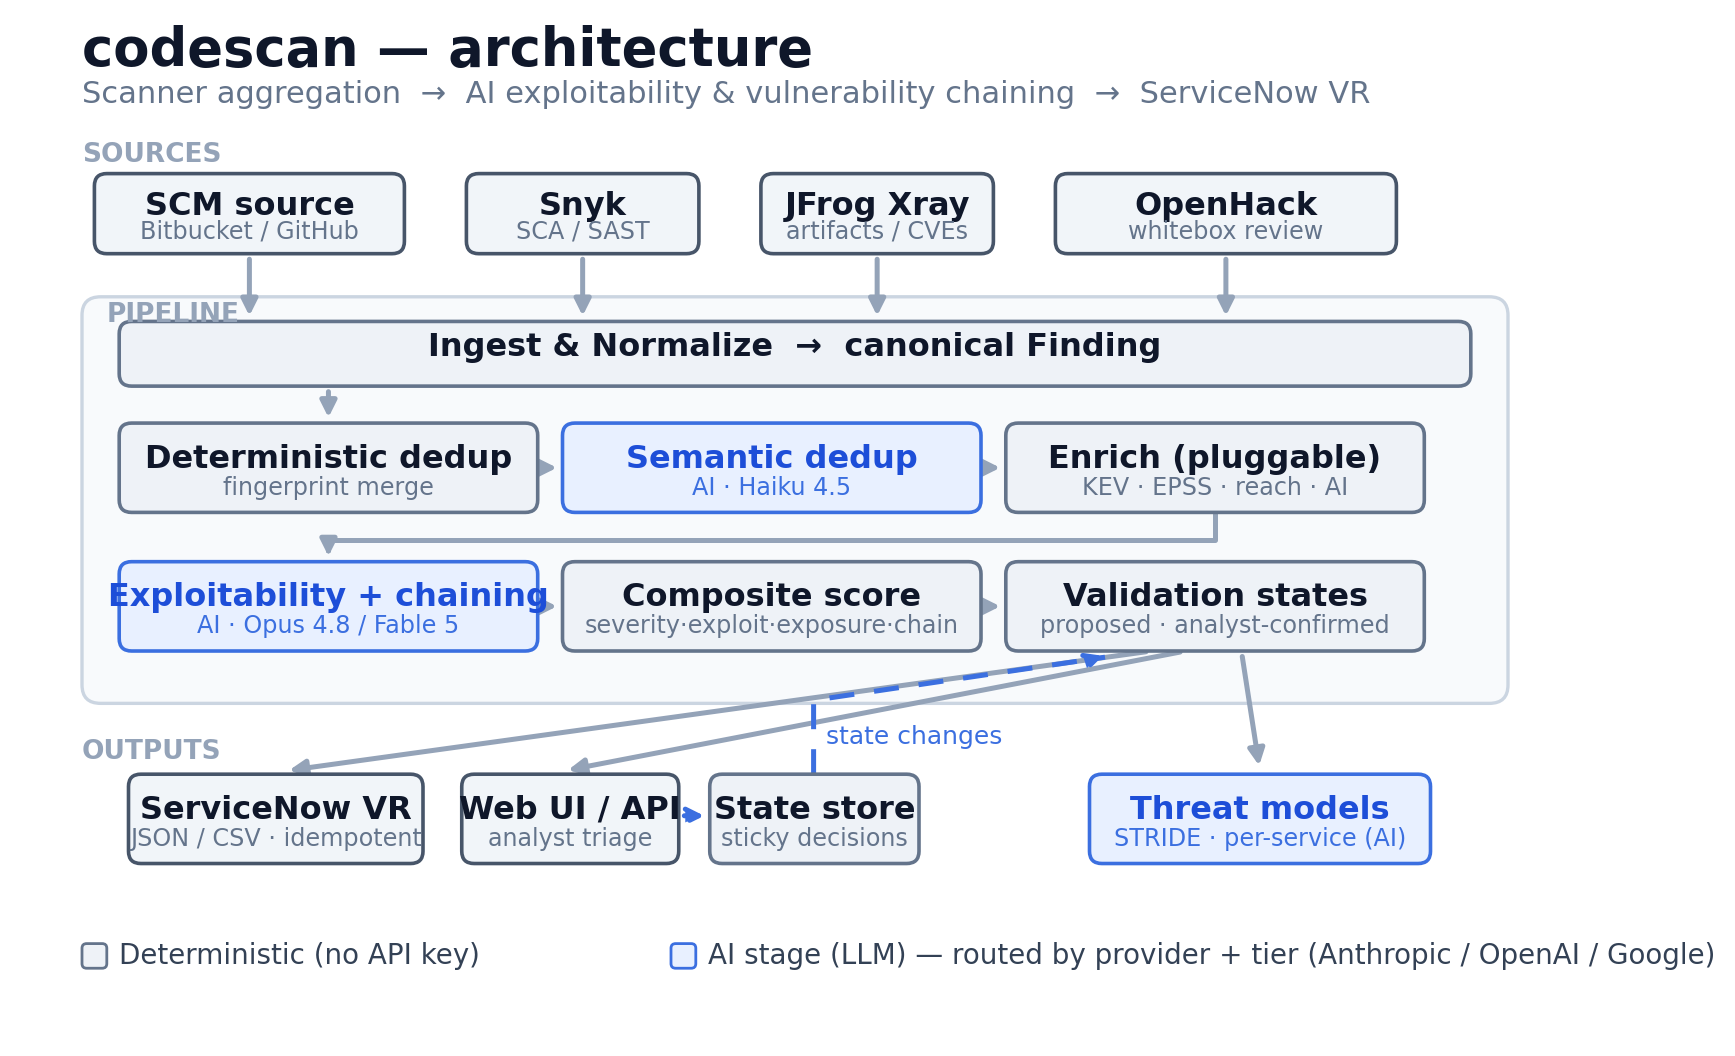
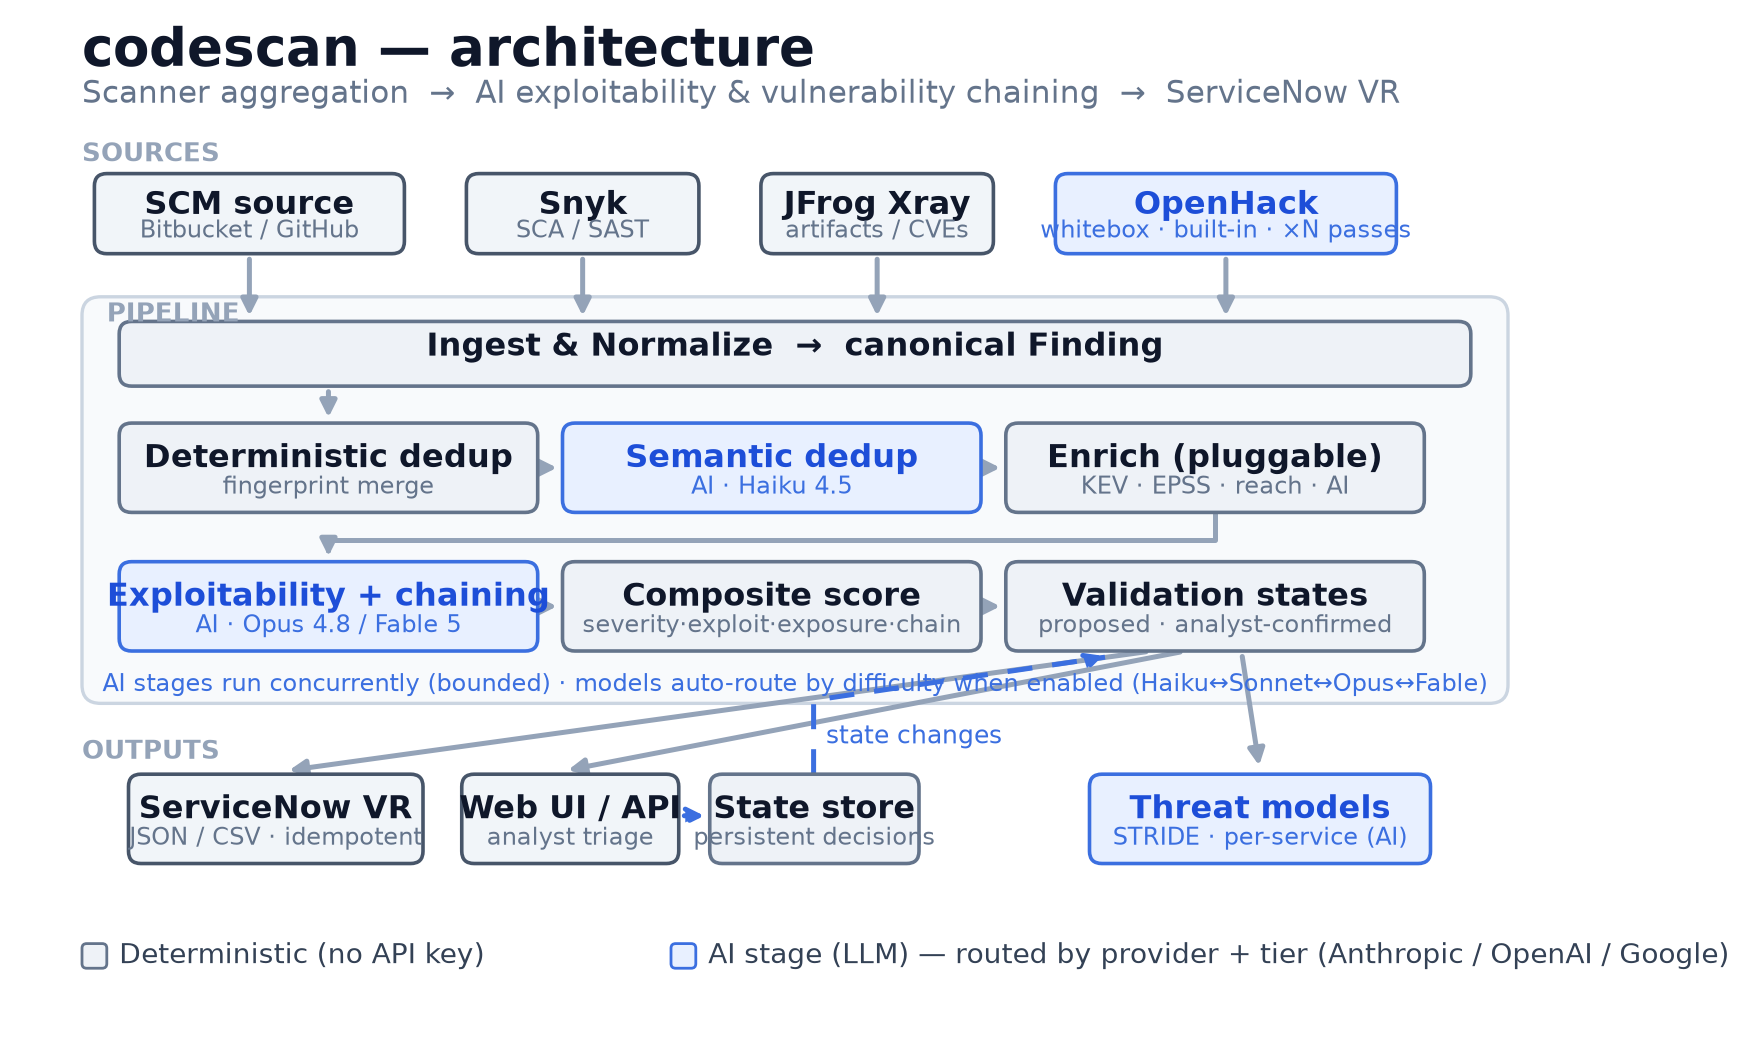
docs: update architecture diagram + design doc for this session's changes
Reflect the OpenHack in-process engine, multi-pass review, bounded AI
concurrency, and silent auto-route in the diagrams and design document.

- architecture.svg + regenerated architecture.png (make_diagram.py, kept in
  sync): OpenHack shown as a built-in AI whitebox engine ("whitebox · built-in
  · xN passes"); annotation for concurrent AI stages + difficulty-based
  auto-route ladder; updated accessibility desc
- DESIGN.md: §5.1 three OpenHack modes + multi-pass union/agreement; §5.5
  auto-route + bounded concurrency + no-prompt-caching rationale; §6 data-flow
  (OpenHack pass, concurrency); §3.1 layering; §7 decisions (4 rows); §11 the
  serial-AI limitation now resolved; §12 testing; §13 config surface
- DESIGN.docx regenerated (node build_docx.mjs, embeds new PNG); build_docx.mjs
  prose/tables mirrored
- pyproject: add a docs extra (matplotlib) so the PNG is reproducibly buildable

Docs only; 81 tests still pass.

diff --git a/docs/make_diagram.py b/docs/make_diagram.py
@@ -57,7 +57,7 @@ def main() -> None:
     box(ax, 48, 100, 200, 52, "SCM source", "Bitbucket / GitHub", IO)
     box(ax, 288, 100, 150, 52, "Snyk", "SCA / SAST", IO)
     box(ax, 478, 100, 150, 52, "JFrog Xray", "artifacts / CVEs", IO)
-    box(ax, 668, 100, 220, 52, "OpenHack", "whitebox review", IO)
+    box(ax, 668, 100, 220, 52, "OpenHack", "whitebox · built-in · ×N passes", AI)
     for sx in (148, 363, 553, 778):
         arrow(ax, (sx, 152), (sx, 196))
 
@@ -85,6 +85,11 @@ def main() -> None:
     # enrich -> exploitability elbow
     ax.plot([771, 771, 199], [320, 338, 338], color=GRAY, linewidth=1.8, zorder=1)
     arrow(ax, (199, 338), (199, 352))
+
+    # AI-stage note: concurrency + adaptive routing
+    ax.text(500, 432, "AI stages run concurrently (bounded) · models auto-route by "
+            "difficulty when enabled (Haiku↔Sonnet↔Opus↔Fable)",
+            ha="center", va="center", fontsize=8.6, color=BLUE)
 
     # outputs
     label(40, 480, "OUTPUTS")

diff --git a/docs/DESIGN.md b/docs/DESIGN.md
@@ -101,10 +101,10 @@ ServiceNow-ready output on its own.
 
 | Layer | Modules | Responsibility |
 |---|---|---|
-| Connectors | `connectors/` | Talk to external systems; emit/consume raw scanner shapes. |
-| Domain model | `models.py` | Canonical `Finding`, fingerprinting, state enums. |
+| Connectors | `connectors/`, `openhack_engine.py`, `openhack_runner.py` | Talk to external systems; emit/consume raw scanner shapes; in-process whitebox review. |
+| Domain model | `models.py` | Canonical `Finding`, fingerprinting, state enums, difficulty signals. |
 | Processing | `dedup*.py`, `enrich/`, `exploitability.py`, `scoring.py`, `validation.py`, `threatmodel.py` | Transform findings; synthesize threat models. |
-| AI infrastructure | `llm.py` | Model routing + structured-output client. |
+| AI infrastructure | `llm.py`, `providers/`, `concurrency.py` | Model routing (+ auto-route), multi-provider client, bounded parallelism. |
 | Orchestration | `pipeline.py` | Wire stages together; two ingest modes. |
 | Interfaces | `cli.py`, `web.py`, `static/` | CLI, HTTP API, dashboard. |
 
@@ -163,20 +163,38 @@ The offline path is not just for demos: it makes the whole pipeline runnable in
 CI, in tests, and against archived scan data with zero credentials.
 
 **Findings sources are also pluggable.** Beyond Snyk/Xray (SCA/CVE), a third
-source — Hadrian **OpenHack** (`connectors/openhack.py`) — ingests whitebox
-source-review findings from an OpenHack run directory (`finding-candidates/*.json`).
-These are first-party source issues with no CVE (dedup keys on title + path);
-they carry severity, target path, description, remediation, and OWASP/CWE-class
-tags, and flow through the same normalize → dedup → score → triage path. This
-gives codescan findings for repos the SCA/CVE scanners never covered.
-codescan can either **ingest** an existing OpenHack run directory, or
-**auto-invoke** OpenHack during a live scan (`openhack_runner.py`): with
-`openhack.auto`, it clones the target repo and runs a configured `command`
-(`{repo_path}`/`{output_dir}` substituted, AI-provider env passed through), then
-ingests the output. The command is configurable because OpenHack is a multi-phase
-agentic tool with its own LLM setup — codescan drives the invocation and reads
-the result rather than reimplementing OpenHack's loop. Fixtures
-under `fixtures/` drive the default UI and the test suite.
+source — **OpenHack** (`connectors/openhack.py`) — ingests whitebox
+source-review findings (`finding-candidates/*.json`). These are first-party source
+issues with no CVE (dedup keys on title + path); they carry severity, target path,
+description, remediation, and OWASP/CWE-class tags, and flow through the same
+normalize → dedup → score → triage path. This gives codescan findings for repos
+the SCA/CVE scanners never covered. There are three ways to produce them:
+
+1. **Built-in engine (default auto).** `openhack_engine.py` is an in-process
+   whitebox review that runs against a cloned repo using codescan's own
+   multi-provider LLM harness (§5.5) — no external tool. It walks the source,
+   skips dependency/build/VCS dirs, reviews the security-relevant files first
+   (auth, handlers, queries, uploads, crypto), batches source within a character
+   budget, and asks the model (routed via the `openhack` task) for concrete,
+   code-grounded vulnerabilities, writing OpenHack-schema finding candidates the
+   connector ingests. This is what makes "auto" mode work inside codescan with the
+   AI stages enabled.
+2. **External command.** Set `openhack.command` to shell out to a separate
+   OpenHack install; `{repo_path}`/`{output_dir}` are substituted and AI-provider
+   env is passed through. `openhack_runner.py` clones the repo, dispatches to the
+   built-in engine or the external command, and hands the output dir to the
+   connector.
+3. **Ingest an existing run** directory produced by any OpenHack run.
+
+**Multiple review passes (recall).** AI source review is non-deterministic, so the
+built-in engine runs `openhack.passes` independent passes (default **2**) and
+**unions** the results — a vulnerability found in any pass is reported, so more
+passes miss fewer. Duplicates across passes are consolidated on
+(file, vulnerability class, title), keeping the strongest severity/confidence seen
+and recording cross-pass agreement: a finding seen in every pass is tagged
+`corroborated`, one seen once `single-pass`, with an "identified in N of M passes"
+note — a confidence signal that survives to the `Finding`. Fixtures under
+`fixtures/` drive the default UI and the test suite.
 
 **Repo source is pluggable.** The repo inventory comes from either Bitbucket
 Data Center (`bitbucket.py`) or GitHub / GitHub Enterprise Server (`github.py`),
@@ -268,8 +286,9 @@ Different tasks need different intelligence tiers:
 
 | Task | Default tier | Rationale |
 |---|---|---|
-| `dedup` | **Haiku 4.5** (effort n/a, 8k tokens) | Mechanical "same vulnerability?" judgement. |
+| `dedup` / `enrichment` | **Haiku 4.5** (effort n/a, 8k tokens) | Mechanical judgement. |
 | `exploitability` | **Opus 4.8** (high effort, 32k) → Fable 5 for hardest chaining | Deep, judgement-heavy reasoning. |
+| `threat_model` / `openhack` | default tier (`ai.model`) | Deep reasoning; route to Sonnet for cost. |
 | *(anything else)* | default tier (`ai.model`) | Fallback. |
 
 `LLMClient` adapts each request to the model's capabilities so callers never
@@ -279,6 +298,29 @@ tooling can trip false-positive classifier refusals; the request transparently
 re-serves on Opus 4.8 in the same call). Config `ai.tasks.<name>` overrides any
 field per task. Adding a new AI stage is a one-liner: name a task, optionally
 give it a built-in tier.
+
+**Silent adaptive routing (`ai.auto_route`).** Off by default. When enabled, each
+AI call is nudged up or down an Anthropic capability ladder —
+**Haiku → Sonnet → Opus → Fable** — *relative to* its configured tier, by a
+difficulty signal the calling stage computes (`group_difficulty` /
+`size_difficulty` in `models.py`): a single low-severity finding downgrades
+(cheaper), while an actively-exploited (KEV), multi-critical, or large group
+upgrades (stronger reasoning). It only shifts Anthropic models that sit on the
+ladder — a custom model id or another supplier is left exactly as configured — and
+clamps at both ends. Enabling it is the operator's explicit opt-in; thereafter it
+applies silently per call (`auto_route` in `llm.py`).
+
+**Bounded concurrency (`ai.max_concurrency`, default 4).** The judgement-heavy
+stages issue one request per repo/service; those requests are independent, so the
+pipeline runs up to `max_concurrency` of them at once (`concurrency.py`,
+order-preserving `map_workers`) — compute in parallel, apply sequentially, so
+output stays deterministic. It's a latency optimization only (same requests, same
+cost) and is bounded to stay within provider rate limits. Applies to
+exploitability, threat modeling, AI enrichment, and semantic dedup.
+
+**No prompt caching (deliberate).** The static system prompts sit far below the
+model's minimum cacheable-prefix size and each request's payload differs, so a
+cache breakpoint would never hit — it is omitted rather than added as dead weight.
 
 ### 5.6 Composite scoring (`scoring.py`)
 
@@ -420,6 +462,10 @@ sequenceDiagram
   CLI->>P: run(mode)
   P->>BB: list repos
   P->>SC: fetch findings
+  opt OpenHack auto (AI enabled)
+    P->>LLM: whitebox review · ×N passes (openhack task)
+    LLM-->>P: finding candidates (unioned, agreement-tagged)
+  end
   P->>P: normalize + deterministic dedup
   opt AI enabled
     P->>LLM: dedup task (Haiku)
@@ -428,13 +474,17 @@ sequenceDiagram
   P->>EN: KEV / EPSS lookup
   EN-->>P: signals
   opt AI enabled
-    P->>LLM: exploitability task (Opus/Fable)
+    P->>LLM: exploitability task (Opus/Fable) — per service, concurrent
     LLM-->>P: per-finding scores + chains
   end
   P->>P: composite score + validation states
   P->>SN: build/push vulnerable items
   P-->>CLI: PipelineResult (findings, chains, items)
 ```
+
+The per-service AI calls (dedup, exploitability, threat modeling, enrichment) run
+up to `ai.max_concurrency` at a time, and — when `ai.auto_route` is on — each
+silently picks a cheaper or stronger model tier by difficulty (§5.5).
 
 ---
 
@@ -449,6 +499,10 @@ sequenceDiagram
 | Structured outputs (JSON Schema) | Parse free-text | Guaranteed-parseable responses; no brittle scraping. |
 | Per-service chaining scope | Whole-estate chaining | Meaningful (connected components) and tractable (bounded request size). |
 | Task-based model routing | One model everywhere | Haiku for mechanical work, Opus/Fable for reasoning — right cost per task. |
+| Built-in in-process OpenHack engine | Require an external OpenHack install | "Auto" mode works inside codescan with no extra tooling; the external command stays supported as an override. |
+| Multi-pass whitebox review (default 2), union + agreement | Single pass | AI review is non-deterministic; unioning passes raises recall, and cross-pass agreement is a confidence signal. |
+| Opt-in silent auto-route (relative to configured tier) | Fixed tiers only; or always-on downgrade | Adapts cost/quality per call by difficulty; opt-in keeps the default deterministic and the choice the operator's. |
+| Bounded concurrency across per-service calls | Sequential | Independent I/O-bound calls; parallelism cuts wall-clock time with deterministic apply order and no cost change. |
 | Composite score with KEV floor | Rank by CVSS | CVSS mis-ranks; the blend + floor put actively-exploited and chainable issues on top. |
 | Persistent, human-tagged validation states | Recompute every run | Analyst decisions must survive rescans; machine proposals stay re-derivable. |
 | Idempotent export via `correlation_id` | Insert-only | Prevents duplicate VR items and re-opening closed ones across daily runs. |
@@ -529,8 +583,9 @@ complete, scored, exportable result. AI enriches; it is never a hard dependency.
   single non-root container that writes runtime artifacts to a `/data` volume;
   secrets are injected via environment). Horizontal scale needs the shared
   datastore above.
-- **AI concurrency.** Per-service calls are serial today; parallelizing or moving
-  to the Batches API would cut wall-clock time on large estates.
+- **AI concurrency.** Per-service calls now run with bounded parallelism
+  (`ai.max_concurrency`, §5.5); moving to the Batches API would cut cost a further
+  ~50% for non-latency-sensitive runs.
 - **ServiceNow field mapping** targets a generic `sn_vul_vulnerable_item` import;
   it must be aligned to each deployment's VR transform map.
 - **No auth on the web UI.** The dashboard assumes a trusted network / upstream
@@ -545,7 +600,13 @@ complete, scored, exportable result. AI enriches; it is never a hard dependency.
   scoring, validation states, ServiceNow record shape, and persisted closures.
 - **Model router** (`tests/test_llm_router.py`) — pure resolution logic
   (Haiku default for dedup, default-tier fallback, override precedence,
-  partial-override inheritance); no network/key.
+  partial-override inheritance) plus **auto-route** (up/down ladder shift,
+  end-clamping, custom-model and non-Anthropic passthrough); no network/key.
+- **OpenHack engine** (`tests/test_openhack_engine.py`) — file selection,
+  dependency-dir skipping, min-confidence, and **multi-pass union + cross-pass
+  agreement** with a stubbed LLM; the connector's tag-merge in `test_openhack.py`.
+- **Concurrency** (`tests/test_concurrency.py`) — order preservation, genuine
+  parallelism (barrier), and the single-item sequential fallback.
 - **Web API** (`tests/test_web.py`) — FastAPI TestClient over the state,
   scan, state-change (incl. persistent-across-rescan), validation, and ServiceNow
   endpoints.
@@ -559,10 +620,16 @@ points validated by contract (schema) rather than live calls.
 
 `config/config.example.yaml` (secrets via `${ENV}`):
 
-- `ai` — default tier + per-task routing (`tasks.dedup`, `tasks.exploitability`).
-- `bitbucket` / `snyk` / `xray` — endpoints, tokens, project scoping, TLS.
-- `servicenow` — instance, credentials, `push` toggle, import table.
-- `enrichment` — KEV/EPSS feed URLs.
+- `ai` — default tier + per-task routing (`tasks.<name>`), plus `max_concurrency`
+  (bounded parallelism) and `auto_route` (silent adaptive tier selection).
+- `source` / `bitbucket` / `github` — repo inventory (scan surface), tokens, scoping, TLS.
+- `snyk` / `xray` — findings endpoints, tokens, TLS.
+- `openhack` — whitebox review: `enabled`/`findings_dir` (ingest), `auto`/`clone`/
+  `command` (run), and built-in-engine tuning (`passes`, `max_files`,
+  `max_file_bytes`, `min_confidence`).
+- `servicenow` — instance, credentials, `push` toggle, import table, `format`.
+- `enrichment` — KEV/EPSS feed URLs + per-enricher toggles.
+- `threat_model` — `enabled`.
 - `scoring` — dimension weights + `kev_floor`.
 
 CLI: `codescan scan` (pipeline), `codescan serve` (UI), `codescan summary`